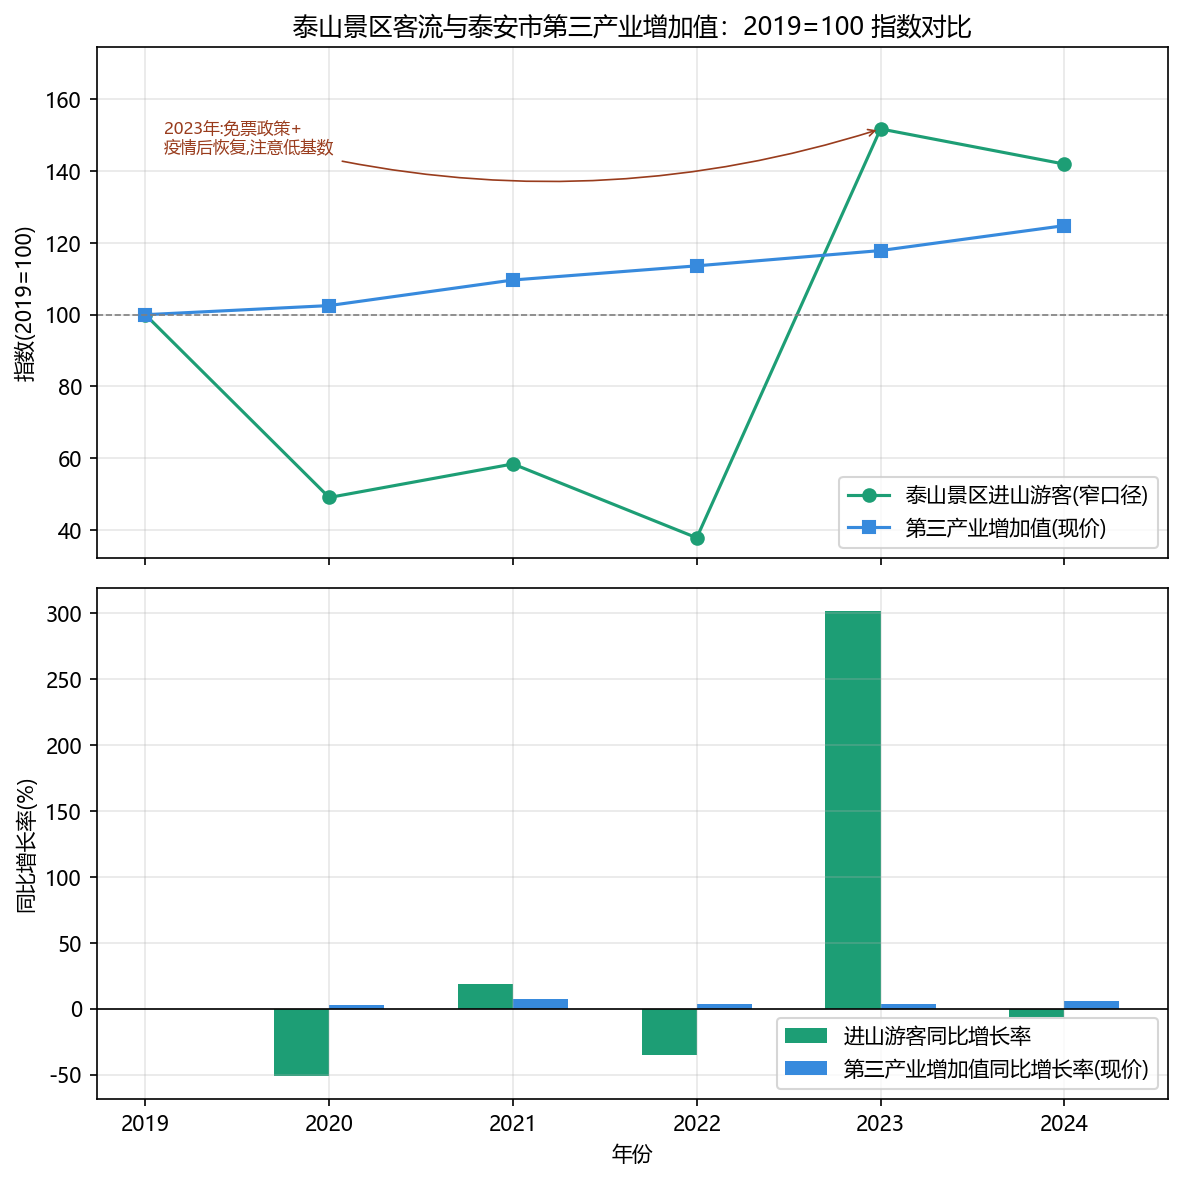
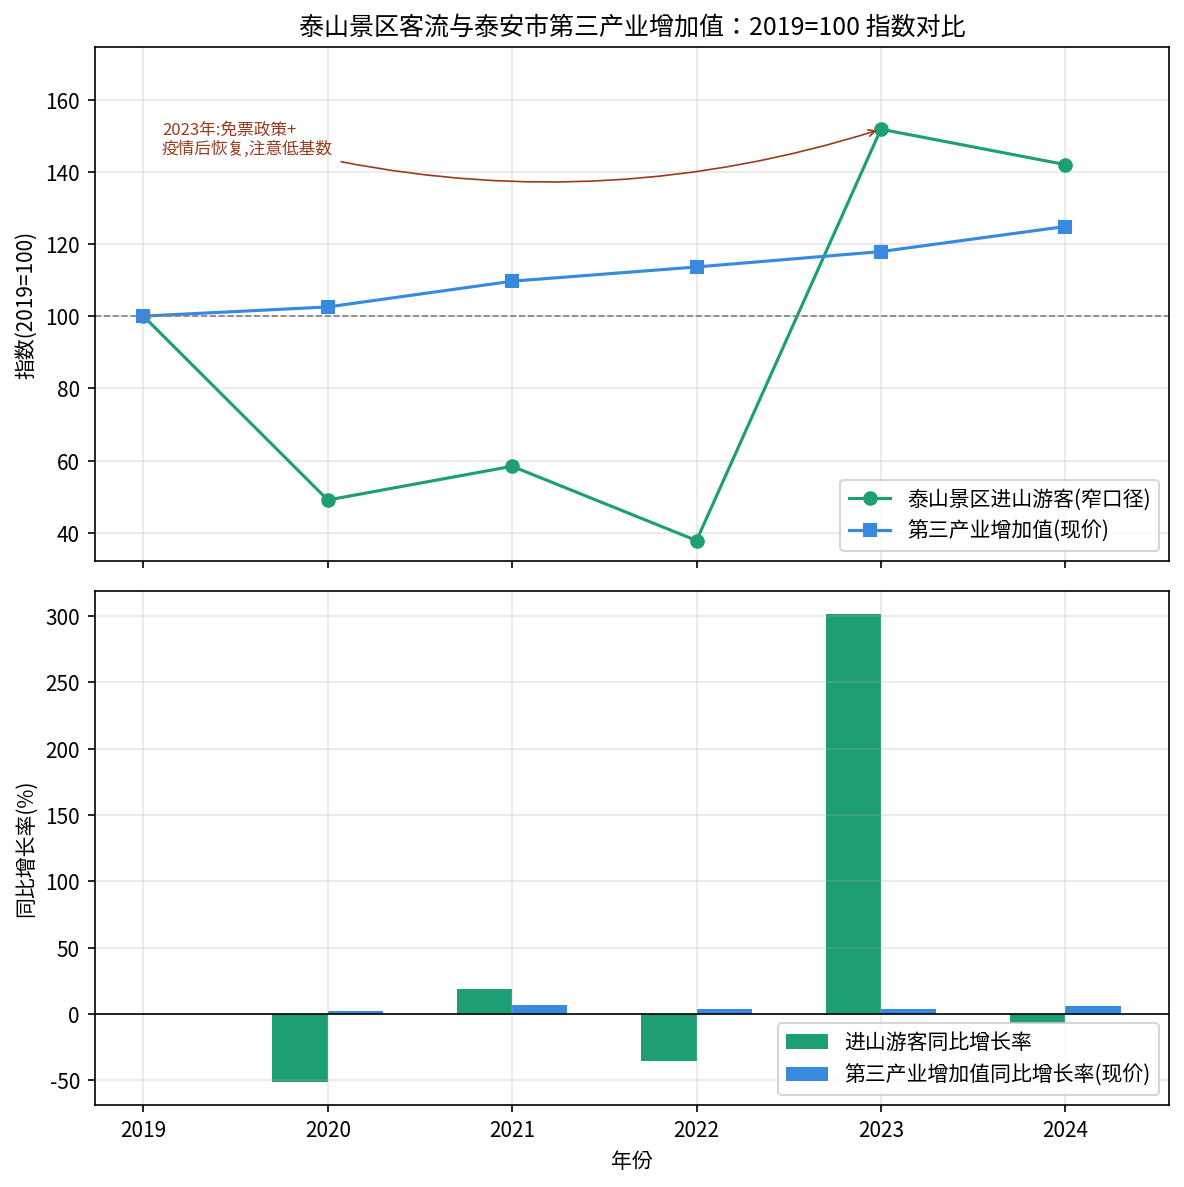
analysis: add English-labelled figures for the English report
改了什么：新增make_english_figures.py，生成英文标签的图1、图2(以_en结尾)；scripts/README补充说明；
中文标签的两张图一并更新

为什么改：英文版报告需要英文标签的图

diff --git a/scripts/make_english_figures.py b/scripts/make_english_figures.py
@@ -1,0 +1,78 @@
+# 生成英文标签版的两张图，供英文版报告使用。
+# 计算方法和 plot_core_comparison.py、sensitivity_check.py 完全一样，只有标签、标题、图例是英文。
+# 中文版的图和原来两个脚本不受影响。
+#
+# Make English-labelled versions of the two figures used in the English report.
+# The calculations are the same as in plot_core_comparison.py and sensitivity_check.py;
+# only the labels are in English. The Chinese figures are not changed.
+
+import pandas as pd
+import matplotlib.pyplot as plt
+
+df = pd.read_csv('../data/cleaned/analysis_data.csv')  # ← 需要改：换成实际路径
+CORE_YEARS = [2019, 2020, 2021, 2022, 2023, 2024]
+
+def get_series(name):
+    s = df[df['指标名称'] == name].set_index('年份')['数值']
+    return pd.to_numeric(s, errors='coerce').reindex(CORE_YEARS)
+
+visitors = get_series('泰山景区进山游客(窄口径)')
+tertiary = get_series('第三产业增加值')
+
+# ---------- Figure 1: index and year-on-year growth ----------
+visitors_index = visitors / visitors.loc[2019] * 100
+tertiary_index = tertiary / tertiary.loc[2019] * 100
+visitors_growth = visitors.pct_change() * 100
+tertiary_growth = tertiary.pct_change() * 100
+
+fig, (ax1, ax2) = plt.subplots(2, 1, figsize=(8, 8), sharex=True)
+
+ax1.plot(CORE_YEARS, visitors_index, marker='o', label='Mount Tai entry visitors', color='#1D9E75')
+ax1.plot(CORE_YEARS, tertiary_index, marker='s', label='Tertiary-sector value-added (current prices)', color='#378ADD')
+ax1.axhline(100, color='gray', linewidth=0.8, linestyle='--')
+ax1.set_ylabel('Index (2019 = 100)')
+ax1.set_title("Mount Tai entry visitors and Tai'an tertiary-sector value-added: index (2019 = 100)")
+ax1.legend()
+ax1.grid(alpha=0.3)
+
+ax2.bar([y - 0.15 for y in CORE_YEARS], visitors_growth, width=0.3,
+        label='Entry visitors, year-on-year growth', color='#1D9E75')
+ax2.bar([y + 0.15 for y in CORE_YEARS], tertiary_growth, width=0.3,
+        label='Tertiary-sector value-added, year-on-year growth (current prices)', color='#378ADD')
+ax2.axhline(0, color='black', linewidth=0.8)
+ax2.set_ylabel('Year-on-year growth (%)')
+ax2.set_xlabel('Year')
+ax2.legend(loc='upper left', fontsize=9)  # upper left is empty, so the legend does not cover the 2023 bar
+ax2.grid(alpha=0.3)
+
+ax1.annotate('2023: free-admission policy +\nrecovery after the pandemic;\nnote the low base',
+             xy=(2023, visitors_index.loc[2023]), xytext=(2019.1, 135),
+             fontsize=8, color='#993C1D', ha='left',
+             arrowprops=dict(arrowstyle='->', color='#993C1D', lw=0.8,
+                              connectionstyle='arc3,rad=0.15'))
+ax1.set_ylim(top=max(visitors_index.max(), tertiary_index.max()) * 1.3)  # extra headroom so the legend does not touch the data
+
+plt.tight_layout()
+fig.savefig('../analysis/figures/01_core_comparison_en.png', dpi=150, bbox_inches='tight')
+print("saved 01_core_comparison_en.png")
+plt.close(fig)
+
+# ---------- Figure 2: different base years ----------
+def make_index(series, base_year):
+    return series / series.loc[base_year] * 100
+
+fig, ax = plt.subplots(figsize=(8, 5))
+colors = ['#1D9E75', '#378ADD', '#BA7517']
+for base_year, color in zip([2019, 2021, 2022], colors):
+    ax.plot(CORE_YEARS, make_index(visitors, base_year), marker='o', color=color,
+            label=f'Base year {base_year} = 100')
+ax.axhline(100, color='gray', linewidth=0.8, linestyle='--')
+ax.set_ylabel('Mount Tai entry-visitor index')
+ax.set_xlabel('Year')
+ax.set_title('How the entry-visitor index changes with the choice of base year')
+ax.legend()
+ax.grid(alpha=0.3)
+plt.tight_layout()
+fig.savefig('../analysis/figures/02_sensitivity_base_year_en.png', dpi=150, bbox_inches='tight')
+print("saved 02_sensitivity_base_year_en.png")
+plt.close(fig)

diff --git a/scripts/README.md b/scripts/README.md
@@ -39,3 +39,7 @@ python sensitivity_check.py
 4. 在 `docs/methodology_notes.md` 里补一段说明这两个脚本是用来做什么的、用了什么方法、
    AI 起草代码后本人做了哪些修改和核对（比如 CSV 数字被读成文字这个bug，是怎么发现并修好的，
    这本身就是一个值得写进方法笔记的"调试过程"）。
+
+## 英文标签的图
+
+`make_english_figures.py` 生成英文版报告用的两张图（`01_core_comparison_en.png`、`02_sensitivity_base_year_en.png`）。计算方法和前面两个脚本完全一样，只有标题、坐标轴、图例、标注换成英文；运行方式相同（在 `scripts/` 文件夹里运行，图保存到 `../analysis/figures/`）。中文版的图和原来的脚本不受影响。
